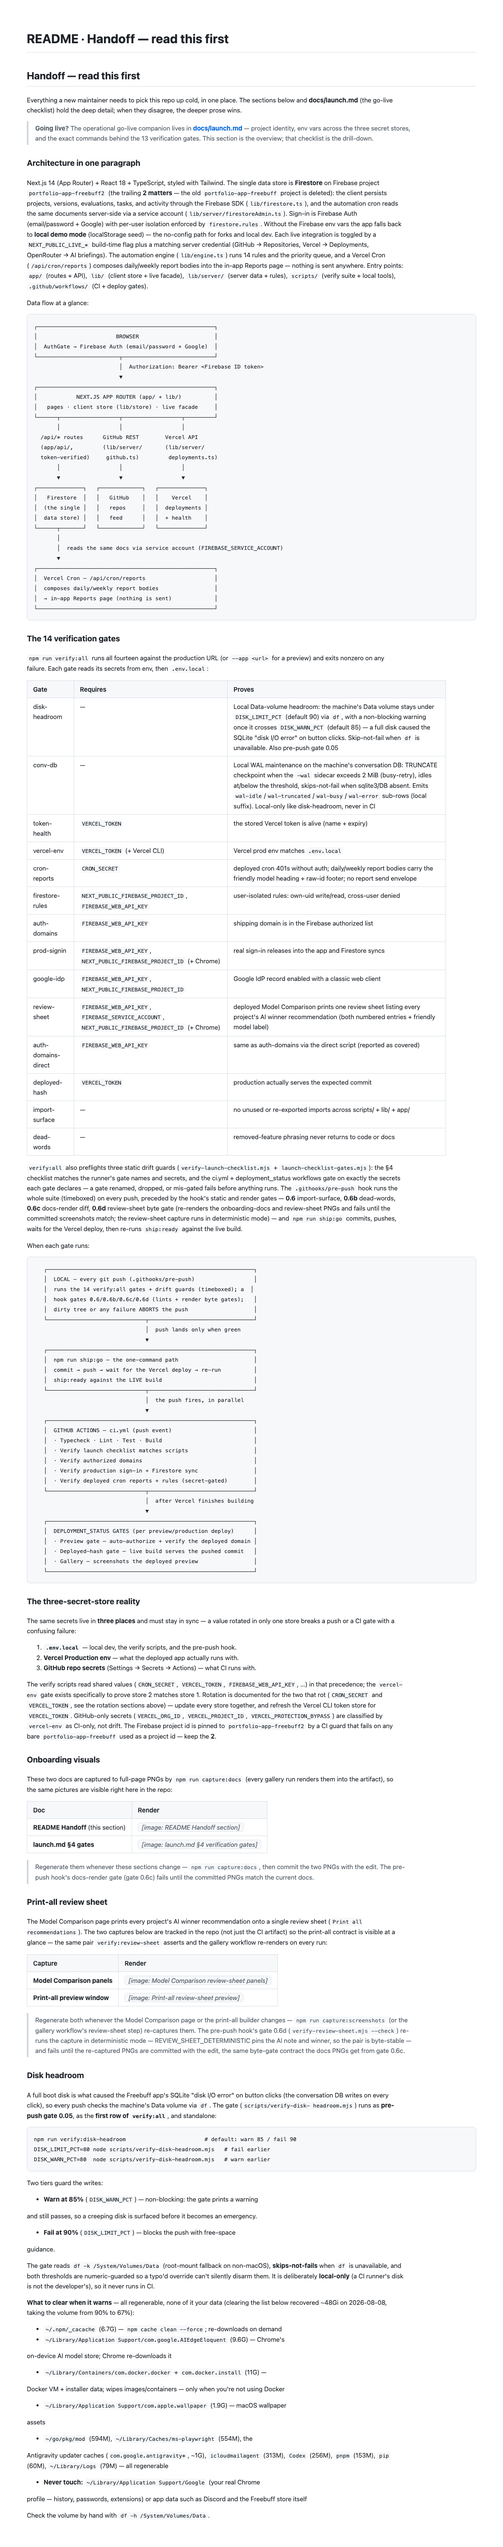
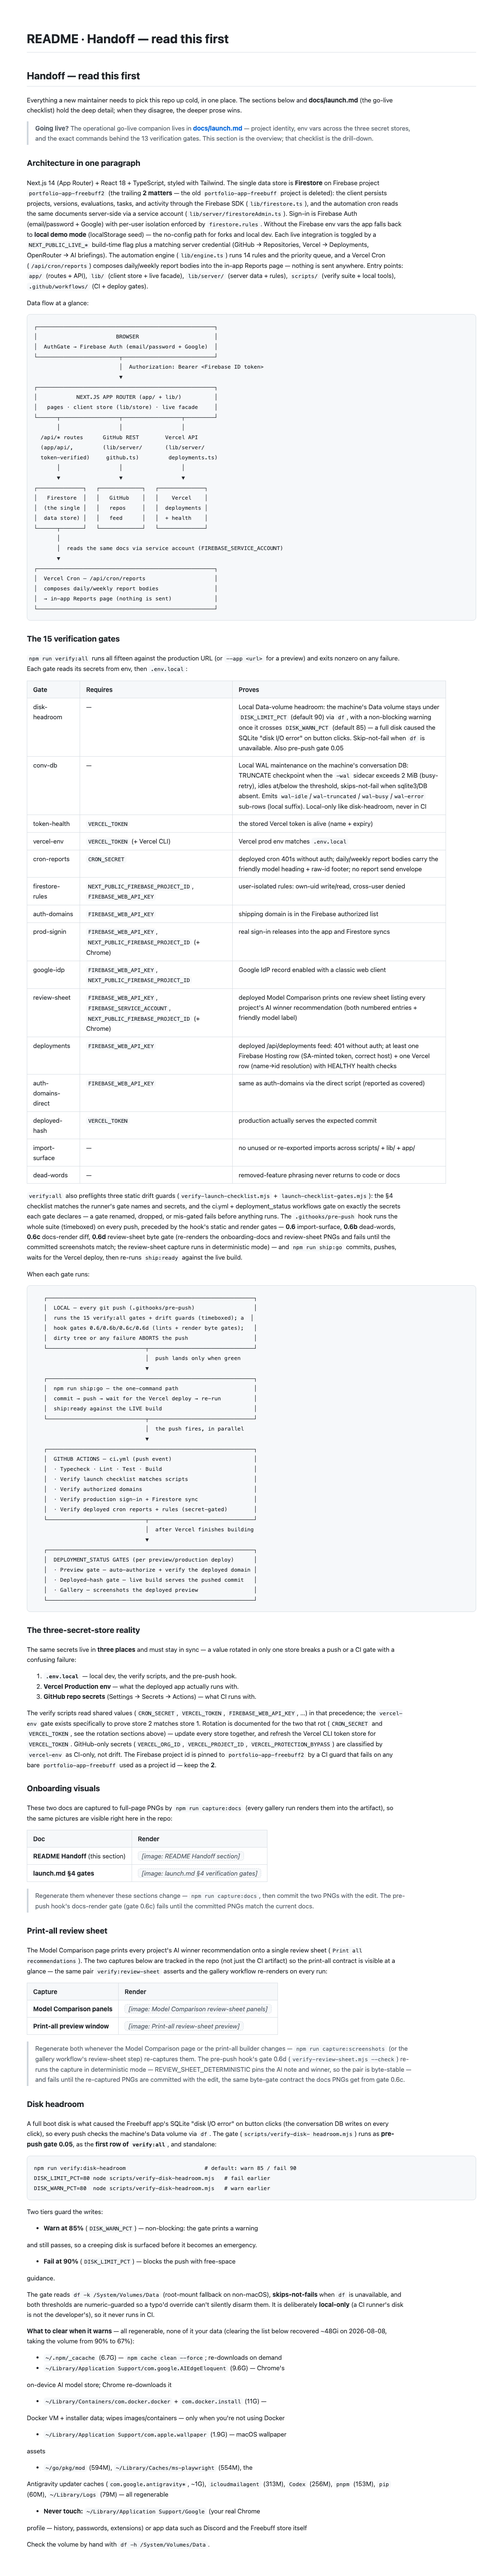
feat(verify): add the deployments feed gate as the 15th verification gate
New verify:deployments gate signs in a throwaway Identity Toolkit user,
hits the deployed /api/deployments, and asserts at least one Firebase
Hosting row and one Vercel row are present with HEALTHY health checks —
guarding the firebasehosting host fix + SA-minted token and the name→id
Vercel resolution from silent regression. Wired into verify:all (capture
gate with auth-gate / firebase-row / vercel-row sub-rows), the ci.yml
verify-deployed job (gated on FIREBASE_WEB_API_KEY), docs/launch.md §4, the
README handoff table, and the full 14→15 contract chain (drift guard,
launch-checklist/readme-handoff/ci-workflows tests, ship-ready, docs PNGs).

diff --git a/scripts/verify-all.test.ts b/scripts/verify-all.test.ts
@@ -190,8 +190,8 @@ describe('verify-all.mjs · capture/marker contract', () => {
     return names;
   };
 
-  it('parses all 14 GATES entries (the contract never goes vacuous)', () => {
-    expect(gates).toHaveLength(14);
+  it('parses all 15 GATES entries (the contract never goes vacuous)', () => {
+    expect(gates).toHaveLength(15);
     expect(gates.filter((g) => g.capture).length).toBeGreaterThan(0);
   });
 
@@ -277,21 +277,21 @@ describe('verify-all.mjs · onboarding-doc pipeline-diagram presence row', () =>
   });
 });
 
-// ── verify-all.mjs's 14-gate self-check ────────────────────────────────────
-// The runner asserts GATE_NAMES.length === 14 (matching the drift guard's
+// ── verify-all.mjs's 15-gate self-check ────────────────────────────────────
+// The runner asserts GATE_NAMES.length === 15 (matching the drift guard's
 // EXPECTED_GATE_COUNT) BEFORE the preflight spawn or any gate executes, so a
 // future gate added without the full contract update fails loudly at runtime
 // instead of silently widening the table.
 
-describe('verify-all.mjs · 14-gate runtime self-check', () => {
+describe('verify-all.mjs · 15-gate runtime self-check', () => {
   const src = readFileSync(join(process.cwd(), 'scripts', 'verify-all.mjs'), 'utf8');
 
-  it('hardcodes EXPECTED_GATE_COUNT = 14 matching the drift guard', () => {
+  it('hardcodes EXPECTED_GATE_COUNT = 15 matching the drift guard', () => {
     // The runner and verify-launch-checklist.mjs must promise the SAME count;
     // a future gate bump that touches only one file fails this lock.
-    expect(src).toContain('const EXPECTED_GATE_COUNT = 14;');
+    expect(src).toContain('const EXPECTED_GATE_COUNT = 15;');
     const drift = readFileSync(join(process.cwd(), 'scripts', 'verify-launch-checklist.mjs'), 'utf8');
-    expect(drift).toContain('const EXPECTED_GATE_COUNT = 14;');
+    expect(drift).toContain('const EXPECTED_GATE_COUNT = 15;');
   });
 
   it('asserts GATE_NAMES.length === EXPECTED_GATE_COUNT before the preflight and any gate runs', () => {
@@ -311,21 +311,21 @@ describe('verify-all.mjs · 14-gate runtime self-check', () => {
     // constant and the results array) — a file-wide regex would be satisfied
     // by the unknown-gate block's process.exit(2) even if the self-check's own
     // exit were silently removed.
-    const block = src.slice(src.indexOf('const EXPECTED_GATE_COUNT = 14;'), src.indexOf('const failures = [];'));
+    const block = src.slice(src.indexOf('const EXPECTED_GATE_COUNT = 15;'), src.indexOf('const failures = [];'));
     expect(block.length).toBeGreaterThan(0);
     expect(block).toContain('launch-checklist contract promises');
     expect(block).toContain('Update every surface together, then re-run.');
     expect(block).toMatch(/process\.exit\(2\);/);
   });
 
-  it('keeps GATE_NAMES and GATES at 14 entries today (live-tree lock)', () => {
+  it('keeps GATE_NAMES and GATES at 15 entries today (live-tree lock)', () => {
     // The self-check must pass on the real tree right now: both arrays hold
-    // exactly 14 entries and agree with each other, so the guard is green
+    // exactly 15 entries and agree with each other, so the guard is green
     // rather than dead code that trips on the next run.
     const gateNames = src.match(/const GATE_NAMES = \[([^\]]*)\]/)?.[1] ?? '';
-    expect([...gateNames.matchAll(/'([^']+)'/g)]).toHaveLength(14);
+    expect([...gateNames.matchAll(/'([^']+)'/g)]).toHaveLength(15);
     const gatesBody = src.match(/const GATES = \[([\s\S]*?)\n\];/)?.[1] ?? '';
-    expect([...gatesBody.matchAll(/name: '([^']+)'/g)]).toHaveLength(14);
+    expect([...gatesBody.matchAll(/name: '([^']+)'/g)]).toHaveLength(15);
   });
 });
 

diff --git a/scripts/readme-handoff.test.ts b/scripts/readme-handoff.test.ts
@@ -6,7 +6,7 @@ import { describe, expect, it } from 'vitest';
 // runner's gate names.
 //
 // The README's `## Handoff — read this first` section carries an
-// "The 14 verification gates" table — the overview surface a cold maintainer
+// "The 15 verification gates" table — the overview surface a cold maintainer
 // meets first. scripts/verify-all.mjs's GATE_NAMES array is the source of
 // truth the one-command runner actually EXECUTES. If a gate is renamed in the
 // runner without a README update (or a row is dropped / a gate is invented in
@@ -25,13 +25,13 @@ const README = readFileSync('README.md', 'utf8');
 const VERIFY_ALL = readFileSync('scripts/verify-all.mjs', 'utf8');
 
 /**
- * The gate names listed in the README handoff's "The 14 verification gates"
+ * The gate names listed in the README handoff's "The 15 verification gates"
  * table, in order. Parsed strictly inside that section (from the heading to
  * the next `### ` heading) so another table elsewhere in the README can't
  * satisfy the assertions. Returns [] when the section is missing.
  */
 export function parseReadmeGateNames(readmeText: string): string[] {
-  const sectionStart = readmeText.indexOf('### The 14 verification gates');
+  const sectionStart = readmeText.indexOf('### The 15 verification gates');
   if (sectionStart === -1) return [];
   const nextHeading = readmeText.indexOf('\n### ', sectionStart + 1);
   const section =
@@ -55,7 +55,7 @@ describe('parseReadmeGateNames (pure helper)', () => {
   it('returns the gate column of the handoff table in order', () => {
     const readme = [
       '## Handoff — read this first',
-      '### The 14 verification gates',
+      '### The 15 verification gates',
       '| Gate | Requires | Proves |',
       '| --- | --- | --- |',
       '| token-health | `VERCEL_TOKEN` | alive token |',
@@ -72,7 +72,7 @@ describe('parseReadmeGateNames (pure helper)', () => {
       '# README',
       '| Gate | Requires | Proves |',
       '| not-a-handoff-row | — | earlier table |',
-      '### The 14 verification gates',
+      '### The 15 verification gates',
       '| Gate | Requires | Proves |',
       '| --- | --- | --- |',
       '| import-surface | — | lint |',
@@ -87,14 +87,14 @@ describe('parseReadmeGateNames (pure helper)', () => {
 
 describe('README handoff gate table contract', () => {
   it('has the expected table shape in the handoff section', () => {
-    const sectionStart = README.indexOf('### The 14 verification gates');
+    const sectionStart = README.indexOf('### The 15 verification gates');
     expect(sectionStart).toBeGreaterThan(-1);
     const section = README.slice(sectionStart);
     expect(section).toContain('| Gate | Requires | Proves |');
   });
 
   it('lists exactly the runner gate names, in order, with no drift', () => {
-    expect(runnerGateNames).toHaveLength(14);
+    expect(runnerGateNames).toHaveLength(15);
     expect(parseReadmeGateNames(README)).toEqual(runnerGateNames);
   });
 

diff --git a/scripts/verify-deployments.test.ts b/scripts/verify-deployments.test.ts
@@ -1,0 +1,60 @@
+import { describe, expect, it } from 'vitest';
+
+import { classifyFeed } from './verify-deployments.mjs';
+
+const row = (provider, healthStatus) => ({ provider, healthStatus, deploymentUrl: `https://${provider}.example` });
+
+// ── classifyFeed (the pure provider/health bucketing) ────────────────────────
+describe('classifyFeed', () => {
+  it('buckets firebase and vercel rows with HEALTHY counts', () => {
+    const rows = [
+      row('firebase', 'HEALTHY'),
+      row('firebase', 'FAILED'),
+      row('vercel', 'HEALTHY'),
+      row('vercel', 'HEALTHY'),
+      row('vercel', 'DEGRADED'),
+    ];
+    const c = classifyFeed(rows);
+    expect(c.firebase).toHaveLength(2);
+    expect(c.firebaseHealthy).toHaveLength(1);
+    expect(c.vercel).toHaveLength(3);
+    expect(c.vercelHealthy).toHaveLength(2);
+  });
+
+  it('treats only HEALTHY as healthy — FAILED / DEGRADED / UNKNOWN do not count', () => {
+    const rows = [
+      row('firebase', 'FAILED'),
+      row('firebase', 'DEGRADED'),
+      row('firebase', 'UNKNOWN'),
+      row('vercel', 'UNKNOWN'),
+    ];
+    const c = classifyFeed(rows);
+    expect(c.firebase).toHaveLength(3);
+    expect(c.firebaseHealthy).toHaveLength(0);
+    expect(c.vercelHealthy).toHaveLength(0);
+  });
+
+  it('returns empty buckets for an empty or null feed', () => {
+    expect(classifyFeed([])).toEqual({ firebase: [], firebaseHealthy: [], vercel: [], vercelHealthy: [] });
+    expect(classifyFeed(null)).toEqual({ firebase: [], firebaseHealthy: [], vercel: [], vercelHealthy: [] });
+    expect(classifyFeed(undefined)).toEqual({ firebase: [], firebaseHealthy: [], vercel: [], vercelHealthy: [] });
+  });
+
+  it('ignores unknown providers and null entries', () => {
+    const rows = [row('github', 'HEALTHY'), null, undefined, row('firebase', 'HEALTHY')];
+    const c = classifyFeed(rows);
+    expect(c.firebase).toHaveLength(1);
+    expect(c.firebaseHealthy).toHaveLength(1);
+    expect(c.vercel).toHaveLength(0);
+  });
+
+  it('keeps the original row shape so the caller can read URLs / status', () => {
+    const rows = [row('firebase', 'HEALTHY')];
+    const c = classifyFeed(rows);
+    expect(c.firebaseHealthy[0]).toEqual({
+      provider: 'firebase',
+      healthStatus: 'HEALTHY',
+      deploymentUrl: 'https://firebase.example',
+    });
+  });
+});

diff --git a/scripts/launch-checklist-ci.test.ts b/scripts/launch-checklist-ci.test.ts
@@ -12,11 +12,12 @@ describe('parseCiGateSteps (live repo)', () => {
   const steps = parseCiGateSteps(read('.github/workflows/ci.yml'));
 
   it('finds every gated verify step across the three post-deploy jobs', () => {
-    expect(steps).toHaveLength(7);
+    expect(steps).toHaveLength(8);
     const byRun = new Map(steps.map((s) => [s.run, s]));
     expect([...byRun.keys()].sort()).toEqual([
       'verify-auth-domains.mjs',
       'verify-cron-reports.mjs',
+      'verify-deployments.mjs',
       'verify-firestore-rules.mjs',
       'verify-google-idp.mjs',
       'verify-prod-signin.mjs',
@@ -37,6 +38,9 @@ describe('parseCiGateSteps (live repo)', () => {
     // (web API key + service account); both non-public secrets must be gated
     // so a missing credential skips-not-fails only on forks.
     expect(byRun.get('verify-review-sheet.mjs').gatingSecrets).toEqual(['FIREBASE_WEB_API_KEY', 'FIREBASE_SERVICE_ACCOUNT']);
+    // The deployments feed gate needs only the web API key (to mint the
+    // throwaway probe user that hits the deployed /api/deployments).
+    expect(byRun.get('verify-deployments.mjs').gatingSecrets).toEqual(['FIREBASE_WEB_API_KEY']);
   });
 
   it('does not pick up loud-guard, checkout, or install steps', () => {

diff --git a/scripts/ci-workflows.test.ts b/scripts/ci-workflows.test.ts
@@ -154,6 +154,17 @@ describe('.github/workflows/ci.yml · verify-deployed job (post-deploy smoke gat
     expect(verifyDeployedBlock).toContain('Install Chrome for review-sheet CDP');
     expect(verifyDeployedBlock).toContain('CHROME_PATH: ${{ steps.chrome-review-sheet.outputs.chrome-path }}');
   });
+
+  it('still runs the deployments feed gate, gated on FIREBASE_WEB_API_KEY', () => {
+    // The deployments gate (verify-deployments.mjs) proves the deployed
+    // /api/deployments feed returns real Firebase + Vercel rows with HEALTHY
+    // health checks after every deploy — guarding the firebasehosting host
+    // fix and the name→id Vercel resolution. It mints its probe user from
+    // the web API key, so it needs only that one secret.
+    expect(verifyDeployedBlock).toMatch(/run: node scripts\/verify-deployments\.mjs/);
+    expect(verifyDeployedBlock).toContain("if: ${{ env.FIREBASE_WEB_API_KEY != '' }}");
+    expect(verifyDeployedBlock).toContain('FIREBASE_WEB_API_KEY: ${{ secrets.FIREBASE_WEB_API_KEY }}');
+  });
 });
 
 describe('.github/workflows/preview-gate.yml · deployment_status preview gate', () => {

diff --git a/scripts/launch-checklist-gates.test.ts b/scripts/launch-checklist-gates.test.ts
@@ -29,7 +29,7 @@ describe('crossCheckVerifyAllGates (live repo)', () => {
       docCommands: gates,
       verifyAllSrc,
       npmScripts,
-      expectedCount: 14,
+      expectedCount: 15,
     });
     expect(failures).toEqual([]);
   });
@@ -44,7 +44,7 @@ describe('crossCheckVerifyAllGates (live repo)', () => {
       docCommands: gates,
       verifyAllSrc: renamed,
       npmScripts,
-      expectedCount: 14,
+      expectedCount: 15,
     });
     expect(failures.join('\n')).toContain('zombie-words');
     expect(failures.join('\n')).toContain('dead-words');
@@ -61,9 +61,9 @@ describe('crossCheckVerifyAllGates (live repo)', () => {
       docCommands: gates,
       verifyAllSrc: dropped,
       npmScripts,
-      expectedCount: 14,
+      expectedCount: 15,
     });
-    expect(failures.join('\n')).toContain('declares 13 gate names');
+    expect(failures.join('\n')).toContain('declares 14 gate names');
     expect(failures.join('\n')).toContain('dead-words');
   });
 });

diff --git a/scripts/capture-docs-dimensions.test.ts b/scripts/capture-docs-dimensions.test.ts
@@ -42,9 +42,10 @@ const WIDTH = 1200;
 const MIN_HEIGHT = 2000;
 // 7000 not 6500: launch.md §4 carries the Disk full emergency subsection
 // (added 2026-08-08) and grew again when the conv-db WAL gate became the
-// 14th §4 row (renders ~6600 tall). The band's real job is catching the
-// 800px MIN_H broken-page collapse, so it tracks content growth while
-// staying far above the floor and far below any pathological render.
+// 14th §4 row (renders ~6600 tall) and the deployments feed gate the 15th
+// (~6700 tall). The band's real job is catching the 800px MIN_H broken-page
+// collapse, so it tracks content growth while staying far above the floor
+// and far below any pathological render.
 const MAX_HEIGHT = 7000;
 
 // ── Dependency-free PNG IHDR parser ─────────────────────────────────────────

diff --git a/scripts/launch-checklist-secrets.test.ts b/scripts/launch-checklist-secrets.test.ts
@@ -16,8 +16,8 @@ describe('parseLaunchChecklistTable (live repo)', () => {
     expect(header).toMatch(/^\|\s*Gate\s*\|\s*Requires\s*\|/);
   });
 
-  it('parses all 14 gate rows with their Requires cells', () => {
-    expect(rows).toHaveLength(14);
+  it('parses all 15 gate rows with their Requires cells', () => {
+    expect(rows).toHaveLength(15);
     for (const row of rows) {
       expect(row.command).toMatch(/^(npm run verify:|node scripts\/)/);
       // Every row must carry a secrets requirement cell — the contract under
@@ -175,7 +175,7 @@ describe('crossCheckVerifyAllGates still passes with the shared parser (live rep
       docCommands: gates,
       verifyAllSrc,
       npmScripts,
-      expectedCount: 14,
+      expectedCount: 15,
     });
     expect(failures).toEqual([]);
   });

diff --git a/scripts/markdown-html.test.ts b/scripts/markdown-html.test.ts
@@ -154,7 +154,7 @@ describe('extractSection', () => {
     const readme = readFileSync('README.md', 'utf8');
     const section = extractSection(readme, '## Handoff', '## Screenshots');
     expect(section).toContain('## Handoff — read this first');
-    expect(section).toContain('### The 14 verification gates');
+    expect(section).toContain('### The 15 verification gates');
     expect(section).toContain('When each gate runs:');
     // Both docs-PNG embeds must stay inside the Handoff section (before the
     // Screenshots section) — a future edit dropping either embed fails here.

diff --git a/docs/launch.md b/docs/launch.md
@@ -83,12 +83,13 @@ Each exits nonzero on failure. Read secrets from env, then `.env.local`.
 | `node scripts/verify-prod-signin.mjs` | `FIREBASE_WEB_API_KEY`, `NEXT_PUBLIC_FIREBASE_PROJECT_ID` (+ Chrome) | AuthGate renders, email/password + Google buttons present, both IdPs enabled (admin API), sign-in releases into the Command Center, Firestore write/read sync proven; `[3b]` asserts the classic OAuth client |
 | `node scripts/verify-google-idp.mjs` | `FIREBASE_WEB_API_KEY`, `NEXT_PUBLIC_FIREBASE_PROJECT_ID` | `createAuthUri` resolves `google.com` with a classic web client id; admin API confirms the IdP record is enabled |
 | `npm run verify:review-sheet` | `FIREBASE_WEB_API_KEY`, `FIREBASE_SERVICE_ACCOUNT`, `NEXT_PUBLIC_FIREBASE_PROJECT_ID` (+ Chrome) | Drives the deployed Model Comparison page end to end: seeds a live fixture under a throwaway user, generates two AI winner recommendations, opens the Print-all review sheet in the preview window, and asserts BOTH numbered entries render with the friendly model label (DeepSeek Chat). Same credential family as prod-signin plus the service account for seeding. Emits sub-rows in `verify:all`'s summary (preview / entries / model label); run-to-run AI note drift is accepted (structure-only assertions) — the committed PNG pair is byte-stable via deterministic capture (gate 0.6d, see the sub-rows note below) |
+| `npm run verify:deployments` | `FIREBASE_WEB_API_KEY` | Deployed `/api/deployments` feed end to end with a throwaway Identity Toolkit user (minted from the web API key, deleted after): unauthenticated calls get 401; an authenticated call returns 200 + `ok:true`; at least one Firebase Hosting row (from the `firebasehosting.googleapis.com` feed via the SA-minted token) and one Vercel row (name→id resolution) are present with HEALTHY health checks. Guards the wrong-host 404 and the name-ignored-filter regressions the feed hit before. Emits `auth-gate` / `firebase-row` / `vercel-row` sub-rows in `verify:all`'s summary |
 | `node scripts/verify-auth-domains.mjs` | `FIREBASE_WEB_API_KEY` | same as `verify:auth-domains` with throwaway-user token |
 | `npm run verify:deployed-hash -- --expect <sha>` | `VERCEL_TOKEN` | Production is actually serving the expected commit — the exact gate the `deployed-hash` CI workflow and pre-push hook run. Pass the commit you expect to be live (`git rev-parse origin/main` for the last pushed commit; `--check-local` compares against local HEAD instead) |
 | `npm run verify:import-surface` | — | Static import-surface lint over `scripts/` + `lib/` + `app/` (TS-compiler-AST scan): no re-exported imports and no unused imports. No secrets, no network — also wired into `npm run lint`, the pre-push hook (gate 0.6), and CI's lint step |
 | `npm run verify:dead-words` | — | Repo-wide sweep for dead-feature phrasing in code comments and docs: the removed report-email wording plus the removed integrations (the old data store, the delivery sender) can never silently return. The env-identifier phrases are **derived from `REMOVED_ENV_VARS` in `lib/integrationVarLinks.ts`** — the same source of truth the Integrations lock test loops over — so the banned list and the lock can never drift: add a removed identifier to the array and both extend automatically. Fails loudly if the array is missing or empty. Skips `docs/reviews/` (historical records), the linter's own files (which must quote the phrases), the source-of-truth array lines, and the removed-var lock lines in `lib/integrationVarLinks.test.ts` (which must quote the dead names to prove they resolve to null). No secrets, no network — also wired into `npm run lint`, the pre-push hook (gate 0.6b), and CI's lint step |
 
-Run **all fourteen in one command** with `npm run verify:all` — it preflights the
+Run **all fifteen in one command** with `npm run verify:all` — it preflights the
 drift guard above, runs every gate sequentially against the production URL
 (or `--app <url>` to target a preview/local server), dedupes the two
 auth-domains rows (they share one script), and prints a summary table,
@@ -131,7 +132,7 @@ When each gate runs (same picture as the README handoff section):
 ```text
    ┌───────────────────────────────────────────────────────────────┐
    │  LOCAL — every git push (.githooks/pre-push)                  │
-   │  runs the 14 verify:all gates + drift guards (timeboxed); a  │
+   │  runs the 15 verify:all gates + drift guards (timeboxed); a  │
    │  hook gates 0.6/0.6b/0.6c/0.6d (lints + render byte gates);   │
    │  dirty tree or any failure ABORTS the push                    │
    └──────────────────────────────┬────────────────────────────────┘
@@ -240,7 +241,7 @@ screenshots match; the review-sheet capture runs in deterministic mode). After
 every individual gate passes, it
 asserts the working tree is clean (nothing staged, unstaged, or untracked — a
 dirty tree means the pushed commit cannot match the code you just ran) and
-runs the complete fourteen-gate suite against production, printing a single
+runs the complete fifteen-gate suite against production, printing a single
 `SHIP READY` / `SHIP BLOCKED` verdict. Any nonzero exit aborts the push — so
 the same one-command verdict the go-live checklist uses is enforced at the
 point of no return. `SKIP_VERIFY_SIGNIN=1` bypasses it like every other gate.
@@ -321,7 +322,7 @@ installer's note).
 2. **Vercel** — all env vars from §2 set on **Production** (and the GitHub secrets from §3).
 3. **Rules** — `npx firebase deploy --only firestore:rules --project portfolio-app-freebuff2`.
 4. **Push to `main`** — Vercel auto-deploys; the pre-push hook runs the local gates; CI runs the post-deploy gates.
-5. **Run the full verify suite** against the production URL (§4). All fourteen gates must pass.
+5. **Run the full verify suite** against the production URL (§4). All fifteen gates must pass.
 6. **Manual smoke** — sign in on the production URL with email/password, then Google; open Command Center; click AI Explain and confirm the briefing card renders with the `DeepSeek Chat` badge.
 
 ## 6. What was verified at go-live (2026-08-06)

diff --git a/README.md b/README.md
@@ -95,9 +95,9 @@ Data flow at a glance:
 └──────────────────────────────────────────────────────┘
 ```
 
-### The 14 verification gates
+### The 15 verification gates
 
-`npm run verify:all` runs all fourteen against the production URL (or
+`npm run verify:all` runs all fifteen against the production URL (or
 `--app <url>` for a preview) and exits nonzero on any failure. Each gate
 reads its secrets from env, then `.env.local`:
 
@@ -113,6 +113,7 @@ reads its secrets from env, then `.env.local`:
 | prod-signin | `FIREBASE_WEB_API_KEY`, `NEXT_PUBLIC_FIREBASE_PROJECT_ID` (+ Chrome) | real sign-in releases into the app and Firestore syncs |
 | google-idp | `FIREBASE_WEB_API_KEY`, `NEXT_PUBLIC_FIREBASE_PROJECT_ID` | Google IdP record enabled with a classic web client |
 | review-sheet | `FIREBASE_WEB_API_KEY`, `FIREBASE_SERVICE_ACCOUNT`, `NEXT_PUBLIC_FIREBASE_PROJECT_ID` (+ Chrome) | deployed Model Comparison prints one review sheet listing every project's AI winner recommendation (both numbered entries + friendly model label) |
+| deployments | `FIREBASE_WEB_API_KEY` | deployed /api/deployments feed: 401 without auth; at least one Firebase Hosting row (SA-minted token, correct host) + one Vercel row (name→id resolution) with HEALTHY health checks |
 | auth-domains-direct | `FIREBASE_WEB_API_KEY` | same as auth-domains via the direct script (reported as covered) |
 | deployed-hash | `VERCEL_TOKEN` | production actually serves the expected commit |
 | import-surface | — | no unused or re-exported imports across scripts/ + lib/ + app/ |
@@ -136,7 +137,7 @@ When each gate runs:
 ```text
    ┌───────────────────────────────────────────────────────────────┐
    │  LOCAL — every git push (.githooks/pre-push)                  │
-   │  runs the 14 verify:all gates + drift guards (timeboxed); a  │
+   │  runs the 15 verify:all gates + drift guards (timeboxed); a  │
    │  hook gates 0.6/0.6b/0.6c/0.6d (lints + render byte gates);   │
    │  dirty tree or any failure ABORTS the push                    │
    └──────────────────────────────┬────────────────────────────────┘
